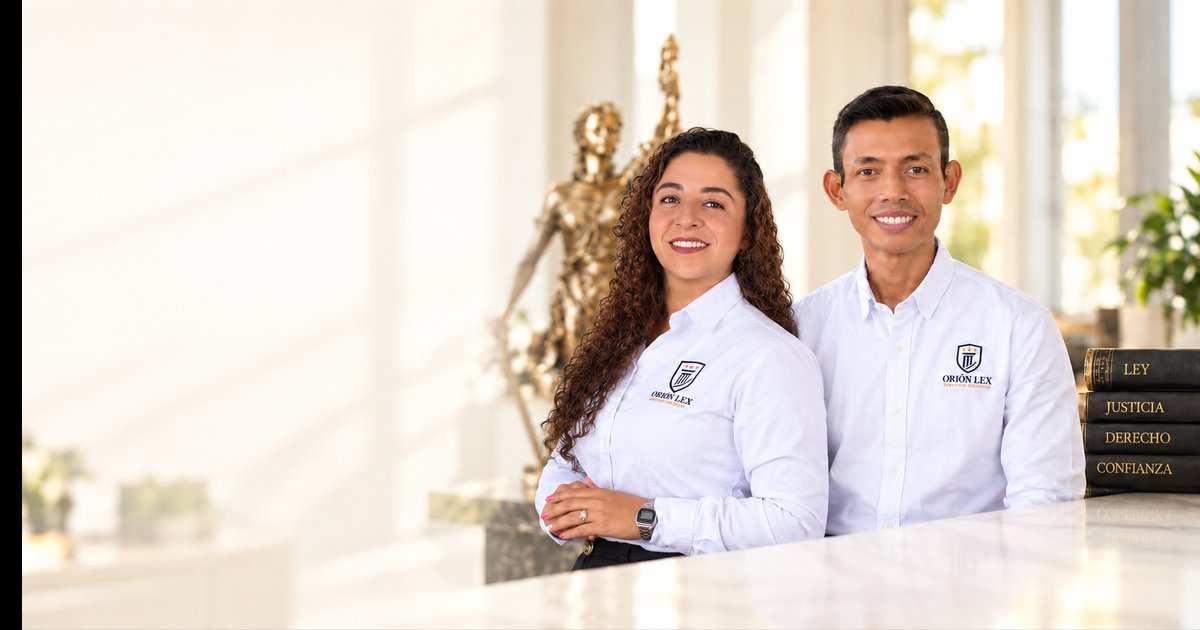
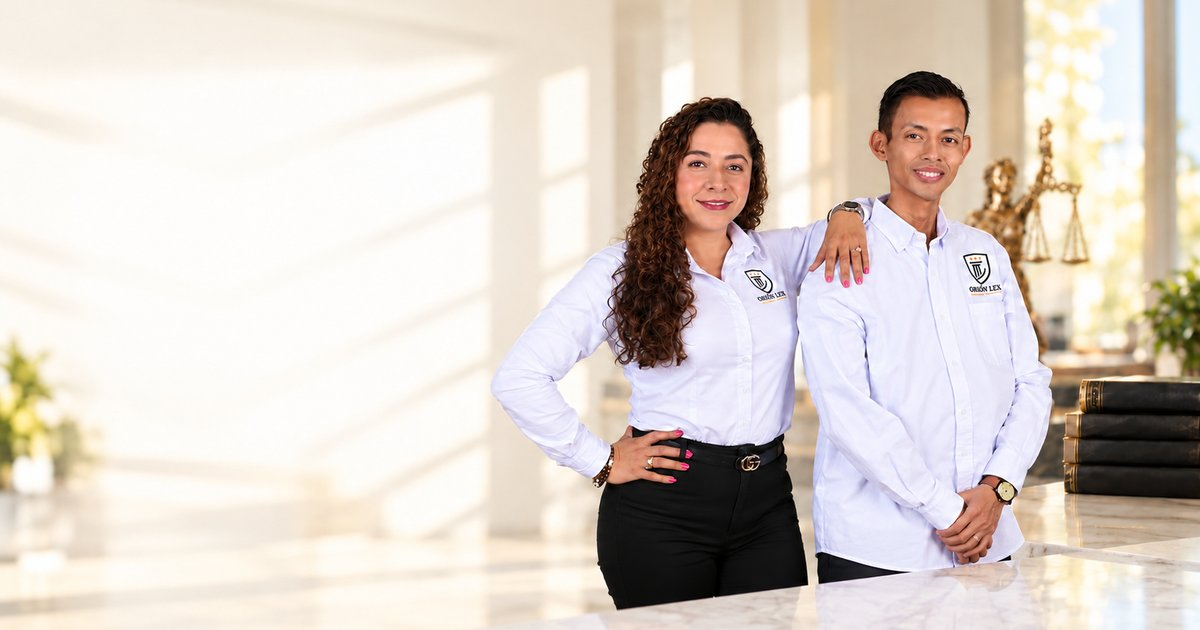
Nueva portada con la foto limpia del equipo
- Hero a pantalla completa desde 1280 px con la foto anclada a la derecha y transición suave
  del color del tema (clara u oscura) desde la izquierda; en tablet y móvil, texto primero y
  foto como bloque, sin cortar rostros.
- Frase manuscrita "Claridad para avanzar" (Allura, solo para esa frase) con trazo naranja.
- Franja inferior: atención virtual y respuesta por WhatsApp con íconos lineales.
- "Ver servicios" desplaza a Asuntos y envía hero_services_click.
- Botón de tema con borde naranja y etiqueta Activar modo oscuro/claro; aria-label en los
  botones de WhatsApp. Cabecera, idioma y tema sin cambios de funcionamiento.
- Imagen para compartir en redes actualizada con la nueva foto.

diff --git a/FRONTEND/src/features/home/components/HeroSection.tsx b/FRONTEND/src/features/home/components/HeroSection.tsx
@@ -1,10 +1,10 @@
 import type { CSSProperties } from 'react';
-import { Link } from 'react-router';
-import { ArrowDown, Check } from 'lucide-react';
+import { ArrowRight } from 'lucide-react';
 import type { HomeContent } from '@orion-lex/shared';
 import { CtaLink } from '@/components/cta/CtaLink';
-import { buttonStyles } from '@/components/ui/button-styles';
+import { ContentIcon } from '@/components/ui/ContentIcon';
 import { Container } from '@/components/ui/Container';
+import { track } from '@/lib/analytics';
 import { cn } from '@/lib/cn';
 
 /** Retraso escalonado para la animación de entrada (`animate-rise`). */
@@ -15,88 +15,128 @@ interface HeroSectionProps {
 }
 
 /**
- * Portada compacta: desde 1280 px la foto del equipo ocupa el fondo y el texto se apoya en el
- * lado claro; en pantallas menores la foto va arriba y el texto debajo. Es más baja que una pantalla para
- * que los servicios asomen enseguida.
+ * Portada. Desde 1280 px la foto del equipo ocupa todo el fondo, anclada a la derecha, y el texto
+ * va en el lado libre de la izquierda (nunca sobre los rostros), con una transición suave del
+ * color de fondo del tema. En tablet y móvil primero va el texto y después la foto como bloque.
+ * Termina con una franja de confianza; debajo asoma "Asuntos que atendemos con frecuencia".
  */
 export function HeroSection({ hero }: HeroSectionProps) {
+  // "/#asuntos" → "#asuntos": ancla en la misma página, con desplazamiento suave (CSS).
+  const servicesHref = hero.secondaryCta.href.replace(/^\/(?=#)/, '');
+
   return (
-    <section aria-labelledby="hero-title" className="relative isolate overflow-hidden">
-      <picture>
-        {hero.image.srcMobile && (
-          <source media="(max-width: 767px)" srcSet={hero.image.srcMobile} />
-        )}
-        <img
-          src={hero.image.src}
-          alt={hero.image.alt}
-          fetchPriority="high"
-          width={1715}
-          height={917}
-          className="block aspect-[16/10] w-full object-cover object-[78%_center] sm:aspect-[16/7] xl:absolute xl:inset-0 xl:-z-20 xl:aspect-auto xl:h-full xl:object-[68%_center]"
-        />
-      </picture>
-      {/* Degradado para leer el texto sobre la foto (solo pantallas de 1280 px o más) */}
-      <div
-        aria-hidden="true"
-        className={cn(
-          'absolute inset-0 -z-10 hidden xl:block',
-          'bg-[linear-gradient(90deg,var(--color-background)_0%,var(--color-background)_28%,color-mix(in_oklab,var(--color-background)_75%,transparent)_42%,transparent_60%)]',
-        )}
-      />
-
-      <Container className="flex flex-col justify-center py-10 sm:py-12 xl:min-h-[min(40rem,calc(100svh-4.5rem-6rem))] xl:py-16">
-        <div className="max-w-xl xl:max-w-2xl">
-          <p className="eyebrow animate-rise" style={delay(0)}>
-            {hero.eyebrow}
-          </p>
-          <h1
-            id="hero-title"
-            className="mt-4 animate-rise font-serif text-[2.4rem] leading-[1.08] font-semibold tracking-tight sm:text-5xl lg:text-[3.6rem] xl:text-[4rem]"
-            style={delay(80)}
-          >
-            {hero.title}
-          </h1>
-          <span
-            aria-hidden="true"
-            className="mt-6 block h-0.5 w-14 animate-rise bg-accent"
-            style={delay(140)}
-          />
-          <p
-            className="mt-6 max-w-lg animate-rise text-lg leading-relaxed text-foreground/85"
-            style={delay(200)}
-          >
-            {hero.description}
-          </p>
-
-          <div
-            className="mt-8 flex animate-rise flex-col gap-3 sm:flex-row sm:flex-wrap"
-            style={delay(280)}
-          >
-            <CtaLink link={hero.primaryCta} location="hero" size="lg" />
-            <Link
-              to={hero.secondaryCta.href}
-              className={buttonStyles({ variant: 'outline', size: 'lg' })}
+    <>
+      <section
+        aria-labelledby="hero-title"
+        className="relative isolate flex flex-col overflow-hidden xl:min-h-[clamp(620px,calc(100svh-16.5rem),720px)] xl:justify-center"
+      >
+        <Container className="py-10 sm:py-14 xl:py-16">
+          <div className="max-w-[36rem] xl:max-w-[38rem]">
+            <p className="eyebrow animate-rise" style={delay(0)}>
+              {hero.eyebrow}
+            </p>
+            <h1
+              id="hero-title"
+              className="mt-4 animate-rise font-serif text-[2.5rem] leading-[1.05] font-semibold tracking-tight sm:text-[3.25rem] lg:text-[3.6rem] xl:text-[4.1rem]"
+              style={delay(80)}
             >
-              {hero.secondaryCta.label}
-              <ArrowDown className="size-4" aria-hidden="true" />
-            </Link>
+              {hero.title}
+            </h1>
+            <p
+              className="mt-5 animate-rise text-lg leading-relaxed text-foreground/80 xl:text-[1.2rem]"
+              style={delay(160)}
+            >
+              {hero.description}
+            </p>
+
+            <div
+              className="mt-8 flex animate-rise flex-col gap-4 sm:flex-row sm:items-center sm:gap-8"
+              style={delay(240)}
+            >
+              <CtaLink link={hero.primaryCta} location="hero" size="lg" className="px-9" />
+              <a
+                href={servicesHref}
+                onClick={() => track('hero_services_click', { location: 'hero' })}
+                className="group inline-flex min-h-11 items-center gap-2 self-start font-medium underline decoration-foreground/40 underline-offset-8 transition-colors hover:text-accent-text hover:decoration-accent active:text-accent-text sm:self-auto"
+              >
+                {hero.secondaryCta.label}
+                <ArrowRight
+                  className="size-4 transition-transform duration-300 ease-out-soft group-hover:translate-x-1"
+                  aria-hidden="true"
+                />
+              </a>
+            </div>
+
+            {hero.script && (
+              <p
+                aria-hidden="true"
+                className="mt-9 w-fit animate-rise text-foreground/90"
+                style={delay(320)}
+              >
+                <span className="block -rotate-3 font-script text-[2.15rem] leading-none whitespace-nowrap min-[375px]:text-[2.6rem] sm:text-[3rem]">
+                  {hero.script}
+                </span>
+                {/* Trazo naranja con apariencia manuscrita */}
+                <svg viewBox="0 0 260 24" className="-mt-1 ml-6 w-56 text-accent sm:w-64">
+                  <path
+                    d="M3 19C58 11 132 6 200 7c20 0 38 2 55 5"
+                    fill="none"
+                    stroke="currentColor"
+                    strokeWidth="2"
+                    strokeLinecap="round"
+                  />
+                </svg>
+              </p>
+            )}
           </div>
+        </Container>
 
-          {hero.points.length > 0 && (
-            <ul
-              className="mt-7 flex animate-rise flex-wrap gap-x-6 gap-y-2 text-sm text-foreground/80"
-              style={delay(360)}
-            >
+        {/* Foto limpia: fondo completo desde 1280 px; bloque independiente debajo del texto antes. */}
+        <div className="relative xl:absolute xl:inset-0 xl:-z-10">
+          <picture>
+            {hero.image.srcMobile && (
+              <source media="(max-width: 767px)" srcSet={hero.image.srcMobile} />
+            )}
+            <img
+              src={hero.image.src}
+              alt={hero.image.alt}
+              width={1672}
+              height={941}
+              fetchPriority="high"
+              className="block aspect-[4/3] h-auto w-full object-cover object-[72%_center] sm:aspect-[16/9] xl:aspect-auto xl:h-full xl:object-[right_center]"
+            />
+          </picture>
+          {/* Transición suave del color del tema desde la izquierda (blanca o negra), sin tapar rostros */}
+          <div
+            aria-hidden="true"
+            className={cn(
+              'absolute inset-0 hidden xl:block',
+              'bg-[linear-gradient(90deg,var(--color-background)_0%,color-mix(in_oklab,var(--color-background)_85%,transparent)_24%,color-mix(in_oklab,var(--color-background)_35%,transparent)_40%,transparent_52%)]',
+              // En modo oscuro la foto es muy clara: la transición negra llega un poco más lejos.
+              'dark:bg-[linear-gradient(90deg,var(--color-background)_0%,var(--color-background)_30%,color-mix(in_oklab,var(--color-background)_70%,transparent)_42%,transparent_56%)]',
+            )}
+          />
+        </div>
+      </section>
+
+      {hero.points.length > 0 && (
+        <div className="border-y border-border bg-background">
+          <Container>
+            <ul className="flex flex-col items-center justify-center gap-3 py-5 sm:flex-row sm:gap-0 sm:divide-x sm:divide-border">
               {hero.points.map((point) => (
-                <li key={point} className="flex items-center gap-2">
-                  <Check className="size-4 text-accent" aria-hidden="true" strokeWidth={2.5} />
-                  {point}
+                <li key={point.text} className="flex items-center gap-3 text-[0.95rem] sm:px-10">
+                  <ContentIcon
+                    name={point.icon}
+                    className="size-6 shrink-0 text-accent"
+                    strokeWidth={1.6}
+                  />
+                  {point.text}
                 </li>
               ))}
             </ul>
-          )}
+          </Container>
         </div>
-      </Container>
-    </section>
+      )}
+    </>
   );
 }

diff --git a/SHARED/src/schemas/content.schema.ts b/SHARED/src/schemas/content.schema.ts
@@ -25,6 +25,7 @@ export const contentIconSchema = z.enum([
   'car',
   'file-pen',
   'hospital',
+  'message-circle',
 ]);
 
 /**
@@ -126,8 +127,10 @@ export const homeContentSchema = z.object({
     description: z.string(),
     primaryCta: linkSchema,
     secondaryCta: linkSchema,
-    /** Frases cortas de confianza bajo los botones. */
-    points: z.array(z.string()).max(4),
+    /** Frase decorativa en letra manuscrita bajo los botones ("Claridad para avanzar"). */
+    script: z.string().optional(),
+    /** Franja inferior del hero: frases cortas de confianza con su ícono. */
+    points: z.array(z.object({ icon: contentIconSchema, text: z.string() })).max(4),
     image: imageSchema,
   }),
 });

diff --git a/FRONTEND/src/components/ui/ThemeToggle.tsx b/FRONTEND/src/components/ui/ThemeToggle.tsx
@@ -17,7 +17,7 @@ export function ThemeToggle({ className }: { className?: string }) {
       aria-label={label}
       title={label}
       className={cn(
-        'relative grid size-11 place-items-center rounded-full border border-border text-foreground/85 transition-colors hover:border-accent hover:text-accent-text',
+        'relative grid size-11 cursor-pointer place-items-center rounded-full border border-accent text-foreground/85 transition-colors hover:bg-accent/10 hover:text-accent-text active:bg-accent/20',
         className,
       )}
     >

diff --git a/FRONTEND/index.html b/FRONTEND/index.html
@@ -44,8 +44,8 @@
         if (home) {
           // Foto de la portada: se precarga para que aparezca cuanto antes.
           [
-            ['/images/hero/equipo-1715.webp', '(min-width: 768px)'],
-            ['/images/hero/equipo-960.webp', '(max-width: 767px)'],
+            ['/images/hero/portada-1672.webp', '(min-width: 768px)'],
+            ['/images/hero/portada-960.webp', '(max-width: 767px)'],
           ].forEach(function (item) {
             var link = document.createElement('link');
             link.rel = 'preload';

diff --git a/FRONTEND/src/main.tsx b/FRONTEND/src/main.tsx
@@ -6,6 +6,8 @@ import '@/i18n';
 // Tipografías del manual de identidad: Playfair Display (títulos) y Montserrat (textos).
 import '@fontsource-variable/playfair-display';
 import '@fontsource-variable/montserrat';
+// Letra manuscrita solo para la frase decorativa de la portada ("Claridad para avanzar").
+import '@fontsource/allura/latin-400.css';
 import '@/styles/globals.css';
 
 initAnalytics();

diff --git a/FRONTEND/src/components/ui/ContentIcon.tsx b/FRONTEND/src/components/ui/ContentIcon.tsx
@@ -15,6 +15,7 @@ import {
   Landmark,
   Laptop,
   MapPin,
+  MessageCircle,
   MessagesSquare,
   Phone,
   Route,
@@ -56,6 +57,7 @@ const icons = {
   car: CarFront,
   'file-pen': FilePenLine,
   hospital: Ambulance,
+  'message-circle': MessageCircle,
 } satisfies Record<ContentIconName, unknown>;
 
 /** Traduce el nombre de ícono guardado en el JSON de contenido a su componente. */

diff --git a/FRONTEND/src/components/cta/CtaLink.tsx b/FRONTEND/src/components/cta/CtaLink.tsx
@@ -57,6 +57,7 @@ export function CtaLink({
         target="_blank"
         rel="noopener noreferrer"
         onClick={handleClick}
+        aria-label={`${link.label} ${t('a11y.opensWhatsApp')}`}
         className={classes}
         // El botón flotante de WhatsApp se oculta mientras este llamado está en pantalla.
         data-whatsapp-cta=""

diff --git a/FRONTEND/src/styles/globals.css b/FRONTEND/src/styles/globals.css
@@ -13,6 +13,8 @@
 @theme {
   --font-sans: 'Montserrat Variable', ui-sans-serif, system-ui, sans-serif;
   --font-serif: 'Playfair Display Variable', ui-serif, Georgia, serif;
+  /* Solo para la frase decorativa del hero */
+  --font-script: 'Allura', cursive;
 
   --color-background: #ffffff;
   /* Fondo alterno de secciones y tarjetas */

diff --git a/FRONTEND/src/lib/analytics.ts b/FRONTEND/src/lib/analytics.ts
@@ -12,6 +12,7 @@ export type AnalyticsEvent =
   | 'contact_form_submit'
   | 'service_card_click'
   | 'landing_cta_click'
+  | 'hero_services_click'
   /** Llamados de cada landing (datacredito_lead, comparendos_lead…), definidos en su JSON. */
   | `${string}_lead`;
 
